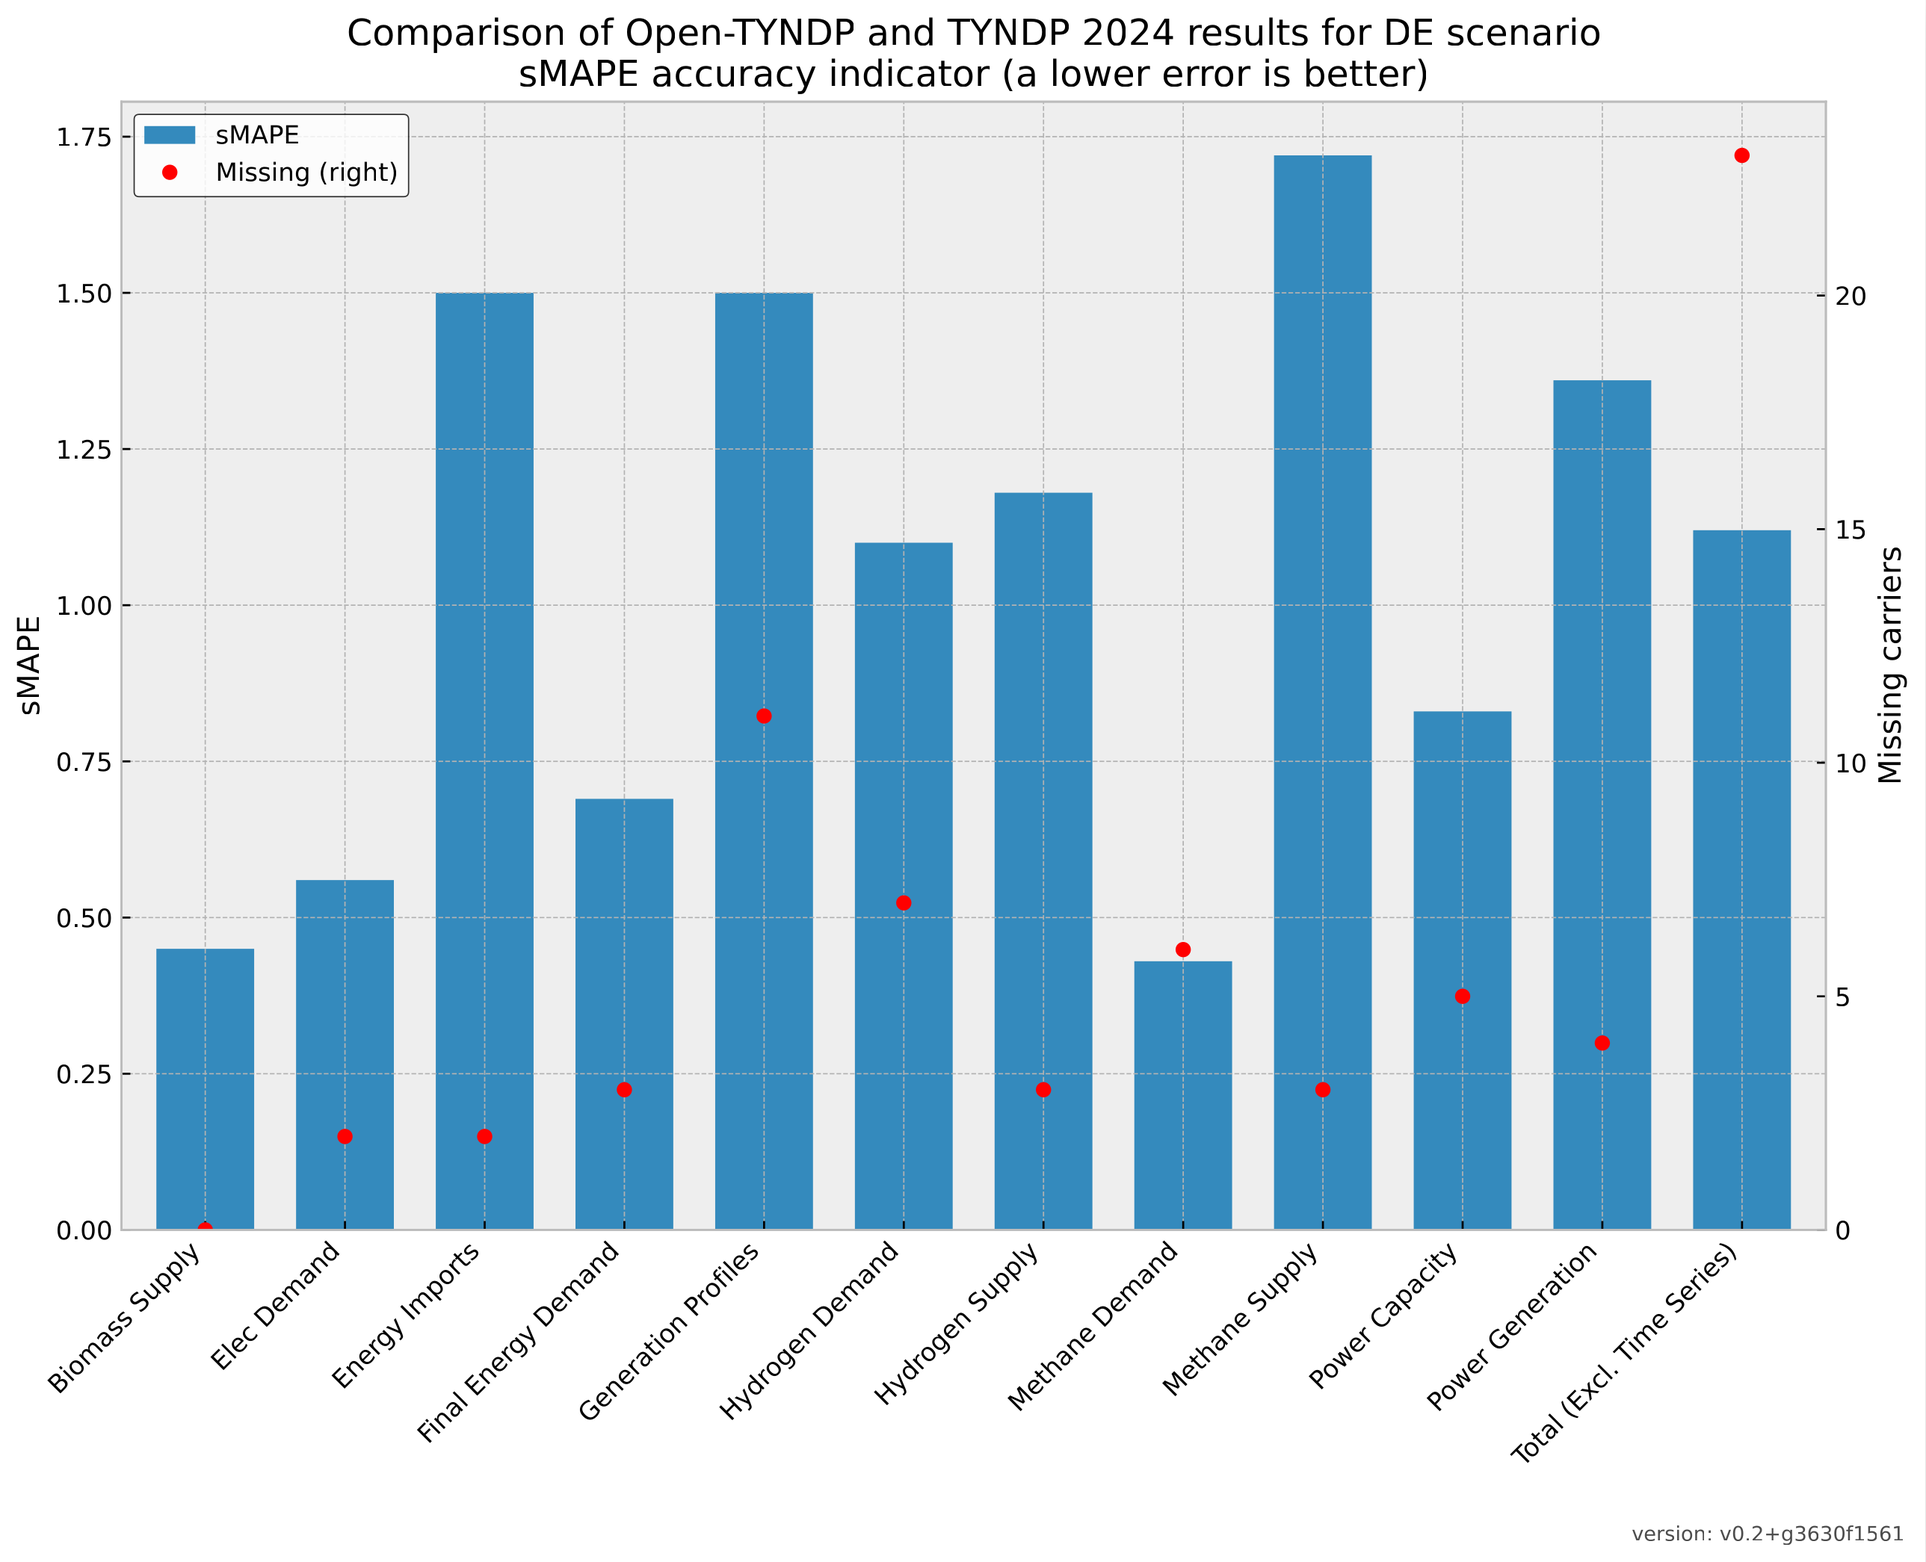
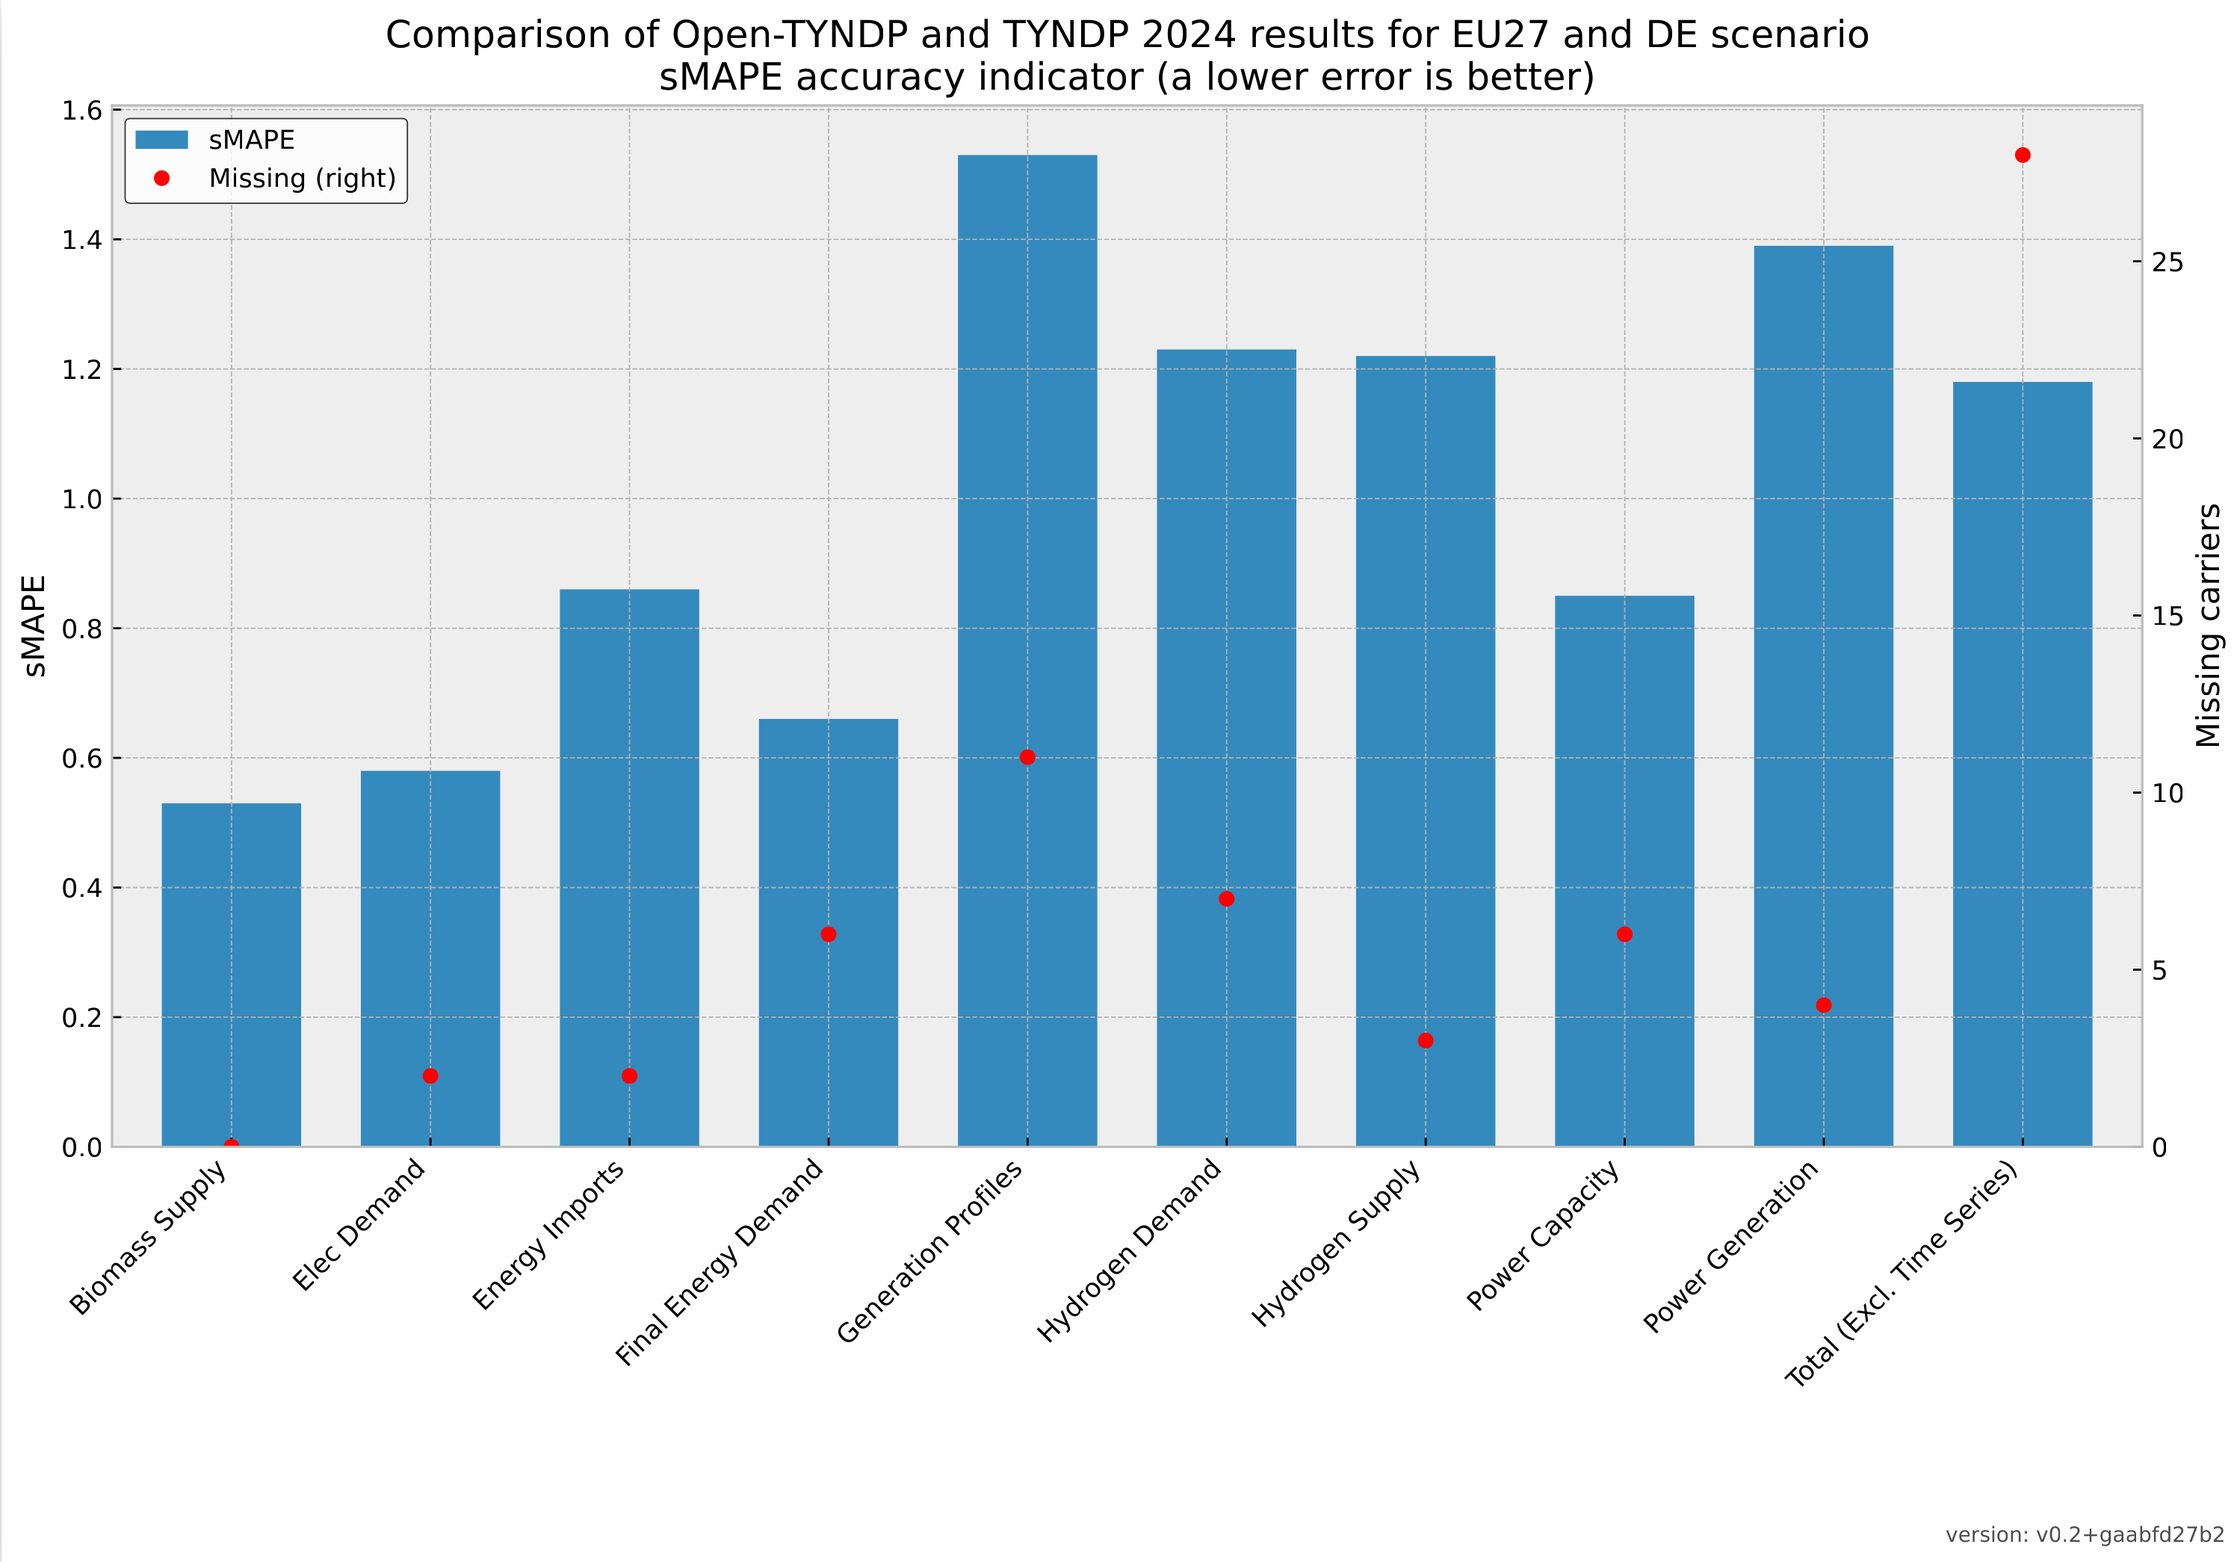
feat: filter eu27 statistics

diff --git a/scripts/build_statistics.py b/scripts/build_statistics.py
@@ -18,7 +18,9 @@ from scripts._helpers import configure_logging, set_scenario_config
 logger = logging.getLogger(__name__)
 
 
-def compute_benchmark(n: pypsa.Network, table: str, options: dict) -> pd.DataFrame:
+def compute_benchmark(
+    n: pypsa.Network, table: str, options: dict, eu27: list[str]
+) -> pd.DataFrame:
     """
     Compute benchmark metrics from optimised network.
 
@@ -30,6 +32,8 @@ def compute_benchmark(n: pypsa.Network, table: str, options: dict) -> pd.DataFra
         Benchmark metric to compute.
     options : dict
         Full benchmarking configuration.
+    eu27 : list[str]
+        List of member state of European Union (EU27).
 
     Returns
     -------
@@ -41,9 +45,11 @@ def compute_benchmark(n: pypsa.Network, table: str, options: dict) -> pd.DataFra
     elec_bus_carrier = ["AC", "AC_OH", "low voltage"]
     supply_comps = ["Generator", "Link"]
     demand_comps = ["Link", "Load"]
+    eu27_idx = n.buses[n.buses.country.isin(eu27)].index
 
     if table == "final_energy_demand":
         # TODO Clarify what renewables encompass
+        grouper = ["bus_carrier", "carrier"]
         exclude_carriers = [
             "DC",
             "DC_OH",
@@ -56,121 +62,194 @@ def compute_benchmark(n: pypsa.Network, table: str, options: dict) -> pd.DataFra
             n.statistics.withdrawal(
                 comps=demand_comps,
                 bus_carrier=elec_bus_carrier + ["gas", "H2", "coal", "oil"],
-                groupby=["bus_carrier", "carrier"],
+                groupby=["bus"] + grouper,
                 nice_names=False,
                 aggregate_across_components=True,
             )
+            .reindex(eu27_idx, level="bus")
+            .groupby(by=grouper)
+            .sum()
             .loc[lambda x: ~x.index.get_level_values("carrier").isin(exclude_carriers)]
             .groupby(level="bus_carrier")
             .sum()
         )
     elif table == "elec_demand":
         # TODO Industrial demand currently included in residential
-        df = n.statistics.withdrawal(
-            comps=demand_comps,
-            bus_carrier=elec_bus_carrier,
-            groupby="carrier",
-            nice_names=False,
-            aggregate_across_components=True,
-        ).drop(
-            index=[
-                "DC",
-                "DC_OH",
-                "electricity distribution grid",
-                "battery charger",
-                "home battery charger",
-            ]
+        grouper = ["carrier"]
+        df = (
+            n.statistics.withdrawal(
+                comps=demand_comps,
+                bus_carrier=elec_bus_carrier,
+                groupby=["bus"] + grouper,
+                nice_names=False,
+                aggregate_across_components=True,
+            )
+            .reindex(eu27_idx, level="bus")
+            .groupby(by=grouper)
+            .sum()
+            .drop(
+                index=[
+                    "DC",
+                    "DC_OH",
+                    "electricity distribution grid",
+                    "battery charger",
+                    "home battery charger",
+                ]
+            )
         )
     elif table == "methane_demand":
         # TODO Energy and non-energy industrial demand are mixed
-        df = n.statistics.withdrawal(
-            comps=demand_comps,
-            bus_carrier="gas",
-            groupby="carrier",
-            nice_names=False,
-            aggregate_across_components=True,
+        grouper = ["carrier"]
+        df = (
+            n.statistics.withdrawal(
+                comps=demand_comps,
+                bus_carrier="gas",
+                groupby=["bus"] + grouper,
+                nice_names=False,
+                aggregate_across_components=True,
+            )
+            .reindex(eu27_idx, level="bus")
+            .groupby(by=grouper)
+            .sum()
         )
     elif table == "hydrogen_demand":
         # TODO Energy and non-energy industrial demand are mixed
         # TODO Aviation has no H2 demand
-        df = n.statistics.withdrawal(
-            comps=demand_comps,
-            bus_carrier="H2",
-            groupby="carrier",
-            nice_names=False,
-            aggregate_across_components=True,
-        ).drop(index="H2 pipeline")
+        grouper = ["carrier"]
+        df = (
+            n.statistics.withdrawal(
+                comps=demand_comps,
+                bus_carrier="H2",
+                groupby=["bus"] + grouper,
+                nice_names=False,
+                aggregate_across_components=True,
+            )
+            .reindex(eu27_idx, level="bus")
+            .groupby(by=grouper)
+            .sum()
+            .drop(index="H2 pipeline")
+        )
     elif table == "power_capacity":
-        df = n.statistics.optimal_capacity(
-            bus_carrier=elec_bus_carrier,
-            groupby="carrier",
-            nice_names=False,
-            aggregate_across_components=True,
-        ).loc[lambda x: x > 0]
+        grouper = ["carrier"]
+        df = (
+            n.statistics.optimal_capacity(
+                bus_carrier=elec_bus_carrier,
+                groupby=["bus"] + grouper,
+                nice_names=False,
+                aggregate_across_components=True,
+            )
+            .reindex(eu27_idx, level="bus")
+            .groupby(by=grouper)
+            .sum()
+            .loc[lambda x: x > 0]
+        )
     elif table == "power_generation":
-        df = n.statistics.supply(
-            comps=supply_comps,
-            bus_carrier=elec_bus_carrier,
-            groupby="carrier",
-            nice_names=False,
-            aggregate_across_components=True,
-        ).drop(
-            index=[
-                "DC",
-                "DC_OH",
-                "electricity distribution grid",
-                "battery discharger",
-                "home battery discharger",
-            ]
+        grouper = ["carrier"]
+        df = (
+            n.statistics.supply(
+                comps=supply_comps,
+                bus_carrier=elec_bus_carrier,
+                groupby=["bus"] + grouper,
+                nice_names=False,
+                aggregate_across_components=True,
+            )
+            .reindex(eu27_idx, level="bus")
+            .groupby(by=grouper)
+            .sum()
+            .drop(
+                index=[
+                    "DC",
+                    "DC_OH",
+                    "electricity distribution grid",
+                    "battery discharger",
+                    "home battery discharger",
+                ]
+            )
         )
     elif table == "methane_supply":
-        df = n.statistics.supply(
-            comps=supply_comps,
-            bus_carrier="gas",
-            groupby="carrier",
-            nice_names=False,
-            aggregate_across_components=True,
+        grouper = ["carrier"]
+        df = (
+            n.statistics.supply(
+                comps=supply_comps,
+                bus_carrier="gas",
+                groupby=["bus"] + grouper,
+                nice_names=False,
+                aggregate_across_components=True,
+            )
+            .reindex(eu27_idx, level="bus")
+            .groupby(by=grouper)
+            .sum()
         )
     elif table == "hydrogen_supply":
         # TODO Clarify difference between low carbon and renewable imports
-        df = n.statistics.supply(
-            comps=supply_comps,
-            bus_carrier="H2",
-            groupby="carrier",
-            nice_names=False,
-            aggregate_across_components=True,
-        ).drop(index=["H2 pipeline", "H2 pipeline OH"])
+        grouper = ["carrier"]
+        df = (
+            n.statistics.supply(
+                comps=supply_comps,
+                bus_carrier="H2",
+                groupby=["bus"] + grouper,
+                nice_names=False,
+                aggregate_across_components=True,
+            )
+            .reindex(eu27_idx, level="bus")
+            .groupby(by=grouper)
+            .sum()
+            .drop(index=["H2 pipeline", "H2 pipeline OH"])
+        )
     elif table == "biomass_supply":
         # TODO Clarify how to deal with unsustainable sources
-        df = n.statistics.supply(
-            comps=supply_comps,
-            bus_carrier="solid biomass",
-            groupby="carrier",
-            nice_names=False,
-            aggregate_across_components=True,
+        grouper = ["carrier"]
+        df = (
+            n.statistics.supply(
+                comps=supply_comps,
+                bus_carrier="solid biomass",
+                groupby=["bus"] + grouper,
+                nice_names=False,
+                aggregate_across_components=True,
+            )
+            .reindex(eu27_idx, level="bus")
+            .groupby(by=grouper)
+            .sum()
         )
     elif table == "energy_imports":
         # TODO Cannot extract gas imports
         # TODO No biomass import is assumed
-        df = n.statistics.supply(
-            comps=supply_comps,
-            bus_carrier=["H2", "oil", "coal", "lignite"],
-            groupby="carrier",
-            nice_names=False,
-            aggregate_across_components=True,
-        ).reindex(
-            ["coal", "lignite", "oil refining", "H2 import LH2", "H2 import Pipeline"]
+        grouper = ["carrier"]
+        df = (
+            n.statistics.supply(
+                comps=supply_comps,
+                bus_carrier=["H2", "oil", "coal", "lignite"],
+                groupby=["bus"] + grouper,
+                nice_names=False,
+                aggregate_across_components=True,
+            )
+            .reindex(eu27_idx, level="bus")
+            .groupby(by=grouper)
+            .sum()
+            .reindex(
+                [
+                    "coal",
+                    "lignite",
+                    "oil refining",
+                    "H2 import LH2",
+                    "H2 import Pipeline",
+                ]
+            )
         )
     elif table == "generation_profiles":
         if n.snapshots.year[0] == 2009:
+            grouper = ["carrier"]
             df = (
                 n.statistics.supply(
                     bus_carrier=elec_bus_carrier,
-                    groupby="carrier",
+                    groupby=["bus"] + grouper,
                     nice_names=False,
                     aggregate_across_components=True,
                     aggregate_time=False,
                 )
+                .reindex(eu27_idx, level="bus")
+                .groupby(by=grouper)
+                .sum()
                 .drop(
                     index=[
                         "DC",
@@ -222,6 +301,7 @@ if __name__ == "__main__":
 
     # Parameters
     options = snakemake.params["benchmarking"]
+    eu27 = snakemake.params["eu27"]
 
     # Read networks
     logger.info("Reading network")
@@ -235,7 +315,7 @@ if __name__ == "__main__":
         "desc": "Computing benchmark",
     }
 
-    func = partial(compute_benchmark, n, options=options)
+    func = partial(compute_benchmark, n, options=options, eu27=eu27)
 
     with mp.Pool(processes=snakemake.threads) as pool:
         benchmarks = list(

diff --git a/scripts/plot_benchmark.py b/scripts/plot_benchmark.py
@@ -63,7 +63,7 @@ def _plot_scenario_comparison(
         width=0.7,
         xlabel="",
         ylabel=f"{table_title} [{source_unit}]",
-        title=f"{table_title} - Scenario {scenario} - Year {year}",
+        title=f"{table_title} - EU27 - Scenario {scenario} - Year {year}",
     )
     ax.tick_params(axis="x", labelrotation=45)
     plt.setp(ax.get_xticklabels(), ha="right")
@@ -133,7 +133,7 @@ def _plot_time_series(
 
     correlation = df_clean[model_col].corr(df_clean[rfc_col])
     table_title = table.replace("_", " ").title()
-    ax.set_title(f"{table_title} - Scenario {scenario} - Year {year}")
+    ax.set_title(f"{table_title} - EU27 - Scenario {scenario} - Year {year}")
     ax.set_xlabel(f"{rfc_col} [{source_unit}]")
     ax.set_ylabel(f"{model_col} [{source_unit}]")
     ax.set_aspect("equal", adjustable="box")
@@ -284,7 +284,7 @@ def plot_overview(
         width=0.7,
         xlabel="",
         ylabel=metric,
-        title=f"Comparison of Open-TYNDP and TYNDP 2024 results for {scenario} scenario\n{metric} accuracy indicator (a lower error is better)",
+        title=f"Comparison of Open-TYNDP and TYNDP 2024 results for EU27 and {scenario} scenario\n{metric} accuracy indicator (a lower error is better)",
         legend=True,
     )
 

diff --git a/scripts/make_benchmark.py b/scripts/make_benchmark.py
@@ -519,7 +519,7 @@ if __name__ == "__main__":
             benchmark_i = benchmark.loc[table].assign(version=version)
             benchmark_i.to_csv(
                 snakemake.output.benchmarks
-                + f"/{table}_s_{snakemake.wildcards.clusters}_{snakemake.wildcards.opts}_{snakemake.wildcards.sector_opts}_all_years.csv"
+                + f"/{table}_eu27_s_{snakemake.wildcards.clusters}_{snakemake.wildcards.opts}_{snakemake.wildcards.sector_opts}_all_years.csv"
             )
 
     # Compute global indicator

diff --git a/doc/benchmarking.rst b/doc/benchmarking.rst
@@ -70,8 +70,8 @@ Workflow
    * `results/validation/resources/` for processed inputs information from both Open-TYNDP and TYNDP 2024.
    * `results/validation/csvs_s_{clusters}_{opts}_{sector_opts}_all_years/` for quantitative information for each table
    * `results/validation/graphics_s_{clusters}_{opts}_{sector_opts}_all_years/` for figures of each table
-   * `results/validation/kpis_s_{clusters}_{opts}_{sector_opts}_all_years.csv` as summary table
-   * `results/validation/kpis_s_{clusters}_{opts}_{sector_opts}_all_years.pdf` as summary figure
+   * `results/validation/kpis_eu27_s_{clusters}_{opts}_{sector_opts}_all_years.csv` as summary table
+   * `results/validation/kpis_eu27_s_{clusters}_{opts}_{sector_opts}_all_years.pdf` as summary figure
    * the structure of these outputs can be validated in the artifacts of the GitHub CI (e.g. artifacts section `here <https://github.com/open-energy-transition/open-tyndp/actions/runs/17715799690?pr=73>`_)
 
 .. image:: img/tyndp/benchmarking_workflow.png
@@ -109,7 +109,7 @@ Example of figure created for the generation profiles for DE scenario in 2040 wi
 
 .. image:: img/tyndp/benchmarking_gen_profiles_DE_2040.png
 
-Example of indicators extracted from `kpis_s_all__all_years.csv` for DE scenario with 720SEG:
+Example of indicators extracted from `kpis_eu27_s_all__all_years.csv` for DE scenario with 720SEG:
 
 ===============================  =====  =====  ======  =====  ============  =======  ==================
 Table                            sMPE   sMAPE  sMdAPE  RMSLE  Growth Error  Missing  version
